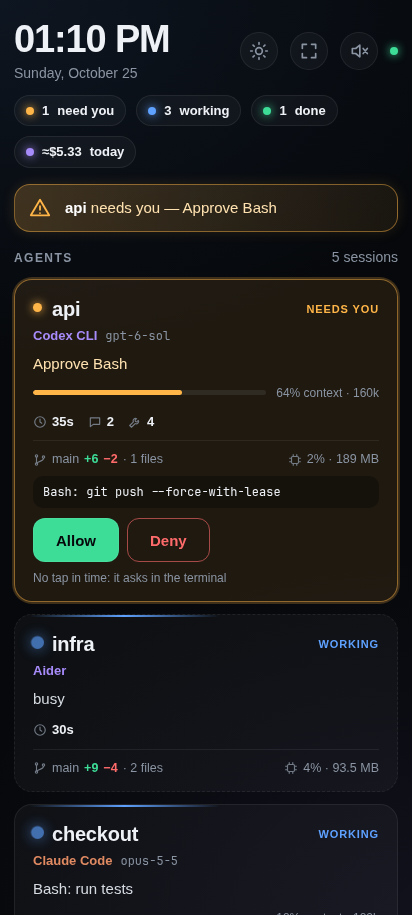
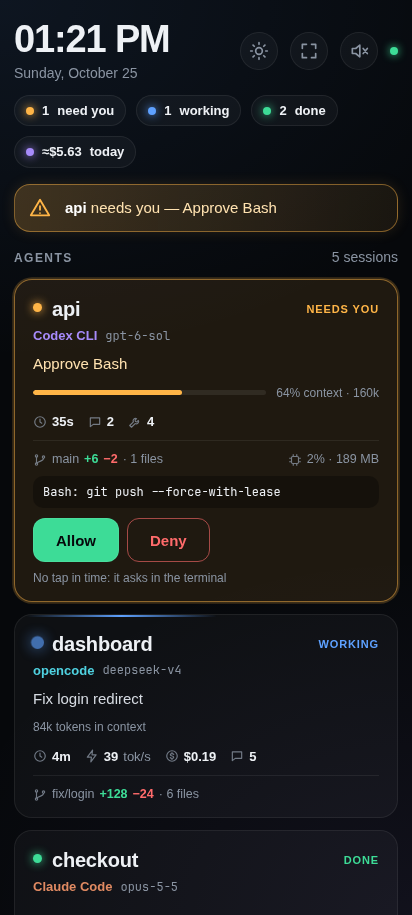
Move model prices into a dated JSON table (#11)
Prices were hand-maintained Python without a date, and Codex rows could
not show a cost. Move the table to agent_status/prices.json with as_of and
source, add the published OpenAI/Codex models, and merge an optional
~/.config/agent-status/prices.json per model on top.

Codex deltas now go through token_cost: cached input is priced at the
cache-read rate and the rest at input, so rows get an estimated cost and
the hourly chart and last-hour burn include them. Unknown models still
report cost: null. The Models panel shows prices_as_of, which is part of
the documented /status contract.

diff --git a/agent_status/web/index.html b/agent_status/web/index.html
@@ -53,12 +53,12 @@
       <div class="hours-axis"><span>00</span><span>06</span><span>12</span><span>18</span><span>24</span></div>
     </section>
     <section class="panel">
-      <div class="panel-h"><h2>Models</h2><span class="muted small">today</span></div>
+      <div class="panel-h"><h2>Models</h2><span class="muted small" id="models-note">today</span></div>
       <table class="models">
         <thead><tr><th>Model</th><th>Out</th><th>Total</th><th>Cost</th><th>tok/s</th></tr></thead>
         <tbody id="models"></tbody>
       </table>
-      <p class="note">≈ is the API-price equivalent of Claude usage, not what a subscription charges. tok/s includes time to first token.</p>
+      <p class="note">≈ is the API-price equivalent of Claude and Codex usage, not what a subscription charges. tok/s includes time to first token.</p>
     </section>
     <section class="panel" id="limits-panel">
       <div class="panel-h"><h2>Plan limits</h2></div>

diff --git a/agent_status/web/app.js b/agent_status/web/app.js
@@ -247,6 +247,7 @@ $("cards").addEventListener("click", async (e) => {
 // ---------- usage ----------
 function renderToday(d) {
   const t = d.today;
+  $("models-note").textContent = d.prices_as_of ? `today · prices ${d.prices_as_of}` : "today";
   setHTML($("today-cost"), t.cost ? `<small>≈</small>$${t.cost.toFixed(2)}` : "$0");
   setHTML($("today-sub"), `<span><b>${num(t.tokens)}</b> tokens</span><span><b>${num(t.output)}</b> output</span>${t.burn ? `<span><b>${usd(t.burn)}</b>/hour</span>` : ""}`);
   const hourNow = new Date().getHours(), max = Math.max(...t.hours.map((h) => h[0]), 1);

diff --git a/agent_status/usage.py b/agent_status/usage.py
@@ -1,38 +1,66 @@
-"""Token maths shared by the collectors: prices, cost, tokens/sec, context windows, usage rows."""
-import re
+"""Token maths shared by the collectors: prices, cost, tokens/sec, context windows, usage rows.
 
-# $/MTok: input, output, cache read. Cache writes bill 1.25x input (5-minute TTL) or 2x (1-hour TTL).
-# Source: Anthropic first-party API pricing. Longest matching prefix wins, so suffixes like "[1m]" still match.
-PRICES = {
-    "claude-fable-5-1": (10, 50, 0.25),
-    "claude-fable-5": (10, 50, 1.00),
-    "claude-opus-5-5": (4, 20, 0.20),
-    "claude-opus-5": (5, 25, 0.50),
-    "claude-opus-4-8": (5, 25, 0.50),
-    "claude-opus-4-7": (5, 25, 0.50),
-    "claude-opus-4-6": (5, 25, 0.50),
-    "claude-sonnet-5-5": (2, 10, 0.20),
-    "claude-sonnet-5": (2, 10, 0.20),
-    "claude-sonnet-4-6": (3, 15, 0.30),
-    "claude-haiku-5-5": (0.10, 0.50, 0.01),
-    "claude-haiku-4-5": (1, 5, 0.10),
-}
+Prices are dated data in prices.json. A file at ~/.config/agent-status/prices.json can override models.
+"""
+import json, re
+from pathlib import Path
+
+from .config import USER_CONFIG
+
+PRICES_FILE = Path(__file__).with_name("prices.json")
+PRICES_OVERRIDE = USER_CONFIG.parent / "prices.json"
 
 
-def price_for(model):
-    best = max((k for k in PRICES if (model or "").startswith(k)), key=len, default=None)
-    return PRICES.get(best)
+def _read_json(path):
+    try:
+        return json.loads(Path(path).read_text())
+    except (OSError, ValueError):
+        return {}
 
 
-def claude_cost(model, u):
-    """API-equivalent dollars for one Claude response's usage block, or None for unknown models."""
-    p = price_for(model)
+def load_prices(override=PRICES_OVERRIDE):
+    """The bundled table with the user's per-model overrides merged on top."""
+    base, user = _read_json(PRICES_FILE), _read_json(override)
+    return dict(as_of=user.get("as_of") or base.get("as_of") or "",
+                source=user.get("source") or base.get("source") or "",
+                models={**(base.get("models") or {}), **(user.get("models") or {})})
+
+
+_loaded = load_prices()
+PRICES, PRICES_AS_OF, PRICES_SOURCE = _loaded["models"], _loaded["as_of"], _loaded["source"]
+
+
+def price_for(model, prices=None):
+    """The longest matching model prefix, or None when the model has no price."""
+    prices = PRICES if prices is None else prices
+    best = max((k for k in prices if (model or "").startswith(k)), key=len, default=None)
+    return prices.get(best)
+
+
+def token_cost(model, input_tokens, output_tokens, cache_read=0, cache_write_5m=0, cache_write_1h=0, prices=None):
+    """USD for token counts at $/MTok; None for an unknown model. Cache writes default to 1.25x/2x input."""
+    p = price_for(model, prices)
     if not p:
         return None
+    in_rate = p["in"]
+    return (input_tokens * in_rate + output_tokens * p["out"] + cache_read * p["cache_read"]
+            + cache_write_5m * p.get("cache_write_5m", in_rate * 1.25)
+            + cache_write_1h * p.get("cache_write_1h", in_rate * 2)) / 1e6
+
+
+def claude_cost(model, u, prices=None):
+    """API-equivalent dollars for one Claude response's usage block, or None for unknown models."""
     w1h = (u.get("cache_creation") or {}).get("ephemeral_1h_input_tokens") or 0
     w5m = (u.get("cache_creation_input_tokens") or 0) - w1h
-    return ((u.get("input_tokens") or 0) * p[0] + (u.get("output_tokens") or 0) * p[1]
-            + (u.get("cache_read_input_tokens") or 0) * p[2] + w5m * p[0] * 1.25 + w1h * p[0] * 2) / 1e6
+    return token_cost(model, u.get("input_tokens") or 0, u.get("output_tokens") or 0,
+                      u.get("cache_read_input_tokens") or 0, w5m, w1h, prices)
+
+
+def codex_cost(model, d, prices=None):
+    """OpenAI counts cached tokens inside input_tokens; Codex's deltas split them."""
+    cached = d.get("cached_input_tokens") or 0
+    return token_cost(model, max((d.get("input_tokens") or 0) - cached, 0), d.get("output_tokens") or 0,
+                      cached, prices=prices)
 
 
 def context_window(model):

diff --git a/tests/test_usage.py b/tests/test_usage.py
@@ -1,14 +1,16 @@
-import unittest
+import json, tempfile, unittest
+from pathlib import Path
 
 from agent_status.procs import agent_key
-from agent_status.usage import PRICES, claude_cost, context_window, finish_rows, new_row, price_for, tps
+from agent_status.usage import (PRICES, claude_cost, codex_cost, context_window, finish_rows, load_prices,
+                                new_row, price_for, tps)
 
 
 class Pricing(unittest.TestCase):
     def test_longest_prefix(self):
         self.assertEqual(price_for("claude-opus-5-5[1m]"), PRICES["claude-opus-5-5"])
         self.assertEqual(price_for("claude-opus-5"), PRICES["claude-opus-5"])
-        self.assertIsNone(price_for("gpt-6"))
+        self.assertIsNone(price_for("unknown-model"))
 
     def test_cost_includes_cache_writes_by_ttl(self):
         u = {"input_tokens": 1_000_000, "output_tokens": 1_000_000, "cache_read_input_tokens": 1_000_000,
@@ -16,6 +18,22 @@ class Pricing(unittest.TestCase):
         # $4 in + $20 out + $0.20 cache read + 1M x 5-min write at 1.25x + 1M x 1-hour write at 2x
         self.assertAlmostEqual(claude_cost("claude-opus-5-5", u), 4 + 20 + 0.2 + 5 + 8)
         self.assertIsNone(claude_cost("unknown", u))
+
+    def test_codex_counts_cached_input_inside_input(self):
+        d = {"input_tokens": 1_000_000, "cached_input_tokens": 600_000, "output_tokens": 100_000}
+        self.assertAlmostEqual(codex_cost("gpt-6-sol", d), (400_000 * 2 + 100_000 * 10 + 600_000 * 0.10) / 1e6)
+        self.assertIsNone(codex_cost("unknown-model", d))
+
+    def test_override_changes_one_model_and_keeps_the_rest(self):
+        with tempfile.TemporaryDirectory() as d:
+            path = Path(d) / "prices.json"
+            path.write_text(json.dumps({"as_of": "2030-01-01", "models": {
+                "claude-opus-5-5": {"in": 100, "out": 100, "cache_read": 1}}}))
+            prices = load_prices(path)
+            self.assertEqual(prices["as_of"], "2030-01-01")
+            self.assertEqual(price_for("claude-sonnet-4-6", prices["models"])["in"], 3)
+            u = {"input_tokens": 1_000_000, "output_tokens": 0}
+            self.assertAlmostEqual(claude_cost("claude-opus-5-5", u, prices["models"]), 100)
 
     def test_context_window(self):
         self.assertEqual(context_window("claude-opus-5-5"), 1_000_000)

diff --git a/agent_status/codex.py b/agent_status/codex.py
@@ -9,7 +9,7 @@ from pathlib import Path
 
 from .claude import parse_ts
 from .config import HOME
-from .usage import new_row
+from .usage import codex_cost, new_row
 
 KEYS = ("input_tokens", "cached_input_tokens", "output_tokens")
 WINDOWS = {300: "5-hour", 10080: "Weekly", 43200: "Monthly"}
@@ -67,19 +67,28 @@ class CodexSessions:
         ctx = f["last"].get("input_tokens") or 0  # OpenAI counts cached tokens inside input_tokens
         return dict(model=f["model"], ctx_tokens=ctx, ctx=ctx / f["window"] if f["window"] else None)
 
-    def usage(self, since):
-        rows, hours = {}, [[0, 0.0] for _ in range(24)]
+    def usage(self, since, now):
+        rows, hours, last_hour = {}, [[0, 0.0] for _ in range(24)], 0.0
         for f in self.files.values():
             for ts, model, d in f["events"]:
                 if ts < since:
                     continue
                 r = rows.setdefault(model, new_row("Codex", model))
-                r["priced"] = False  # shortcut: no reliable per-token prices for Codex models yet
+                cost = codex_cost(model, d)
+                if cost is None:
+                    r["priced"] = False
+                else:
+                    r["estimated"] = True
+                    r["cost"] += cost
+                    if now - ts < 3600:
+                        last_hour += cost
                 r["input"] += d["input_tokens"] - d["cached_input_tokens"]
                 r["cache_read"] += d["cached_input_tokens"]
                 r["output"] += d["output_tokens"]
-                hours[datetime.fromtimestamp(ts).hour][0] += d["input_tokens"] + d["output_tokens"]
-        return list(rows.values()), hours
+                h = hours[datetime.fromtimestamp(ts).hour]
+                h[0] += d["input_tokens"] + d["output_tokens"]
+                h[1] += cost or 0
+        return list(rows.values()), hours, last_hour
 
     def limits(self, now):
         if not self.rate:

diff --git a/agent_status/collect.py b/agent_status/collect.py
@@ -12,7 +12,7 @@ from .hooks import read_json
 from .opencode import OpenCode
 from .procs import ProcTable, label
 from .system import System
-from .usage import finish_rows
+from .usage import PRICES_AS_OF, finish_rows
 
 STALE = 6 * 3600  # hook records without a known pid are dropped after this long
 TMP_STALE = 60  # a hook killed mid-write leaves a *.tmp younger than any real write
@@ -115,8 +115,8 @@ class Collector:
             r, h, b = self.claude.usage(since, now)
             rows, hours, burn = rows + r, hours + [h], burn + b
         if on("codex"):
-            r, h = self.codex.usage(since)
-            rows, hours = rows + r, hours + [h]
+            r, h, b = self.codex.usage(since, now)
+            rows, hours, burn = rows + r, hours + [h], burn + b
         if on("opencode"):
             c, r, h, b = self.oc.read(now, since)
             cards, rows, hours, burn = cards + c, rows + r, hours + [h], burn + b
@@ -130,7 +130,7 @@ class Collector:
         limits += [l for l in om_limits if l["name"] not in have]
         rows = finish_rows(rows + om_rows)
         snapshot = dict(
-            schema=1, now=now, interval=INTERVAL, agents=cards, limits=limits, week=week, system=self.system.sample(now),
+            schema=1, now=now, interval=INTERVAL, prices_as_of=PRICES_AS_OF, agents=cards, limits=limits, week=week, system=self.system.sample(now),
             today=dict(cost=sum(r["cost"] or 0 for r in rows), tokens=sum(r["total"] for r in rows),
                        output=sum(r["output"] for r in rows), burn=burn,
                        hours=add_hours(*hours) if hours else [[0, 0]] * 24, models=rows))

diff --git a/tests/test_contract.py b/tests/test_contract.py
@@ -72,7 +72,7 @@ ROW = {"agent": text, "model": text, "input": integer, "output": integer, "cache
        "cache_write": integer, "cost": Nullable(number), "estimated": boolean, "tps": Nullable(number),
        "total": integer}
 STATUS = {
-    "schema": integer, "now": number, "interval": number,
+    "schema": integer, "now": number, "interval": number, "prices_as_of": text,
     "agents": [CARD],
     "limits": [LIMIT],
     "week": [{"date": text, "agents": Map(integer)}],
@@ -148,10 +148,10 @@ class FakeCodex:
     def session(self, path):
         return dict(model="gpt-6-sol", ctx_tokens=5000, ctx=0.02)
 
-    def usage(self, since):
+    def usage(self, since, now):
         row = new_row("Codex", "gpt-6-sol")
-        row.update(input=100, output=20, cache_read=50, priced=False)
-        return [row], [[170, 0] for _ in range(24)]
+        row.update(input=100, output=20, cache_read=50, cost=0.01, estimated=True)
+        return [row], [[170, 0.01] for _ in range(24)], 0.01
 
     def limits(self, now):
         return [dict(name="Codex", tier="Plus",

diff --git a/agent_status/demo.py b/agent_status/demo.py
@@ -2,7 +2,7 @@
 import json, math, time
 from datetime import datetime, timedelta
 
-from .usage import finish_rows, new_row
+from .usage import PRICES_AS_OF, finish_rows, new_row
 
 
 def _iso(ts):
@@ -22,7 +22,8 @@ def _rows():
     rows.append(claude)
 
     codex = new_row("Codex", "gpt-6-sol")
-    codex.update(input=96_000, output=8_400, cache_read=240_000, priced=False, tps_out=8_400, tps_sec=195)
+    codex.update(input=96_000, output=8_400, cache_read=240_000, cost=0.30, estimated=True,
+                 tps_out=8_400, tps_sec=195)
     rows.append(codex)
 
     oc = new_row("opencode", "deepseek-v4")
@@ -112,7 +113,7 @@ def snapshot(now=None):
             tx=_wave(60, 180_000, 50_000, 5, phase, 0)),
     )
 
-    return dict(schema=1, now=now, interval=2, agents=cards, limits=limits, week=week,
+    return dict(schema=1, now=now, interval=2, prices_as_of=PRICES_AS_OF, agents=cards, limits=limits, week=week,
                 system=system, today=today_usage)
 
 

diff --git a/tests/test_readers.py b/tests/test_readers.py
@@ -56,8 +56,11 @@ class CodexLogs(unittest.TestCase):
             path.write_text("".join(json.dumps(l) + "\n" for l in lines))
             c = CodexSessions(d)
             c.scan(now - 3600)
-            rows, _ = c.usage(now - 3600)
+            rows, _, last_hour = c.usage(now - 3600, now)
             self.assertEqual((rows[0]["model"], rows[0]["output"], rows[0]["cache_read"]), ("gpt-6-sol", 300, 2000))
+            self.assertAlmostEqual(rows[0]["cost"], (1000 * 2 + 300 * 10 + 2000 * 0.10) / 1e6)
+            self.assertTrue(rows[0]["estimated"])
+            self.assertGreater(last_hour, 0)
             self.assertEqual(c.session(str(path))["ctx"], 0.02)
             limits = c.limits(now)[0]
             self.assertEqual((limits["tier"], limits["limits"][0]["label"], limits["limits"][0]["pct"]), ("Plus", "5-hour", 0.64))

diff --git a/docs/PLAN.md b/docs/PLAN.md
@@ -23,7 +23,7 @@ Repo conventions and invariants live in [`AGENTS.md`](../AGENTS.md); they apply 
 | T07 | Demo mode for screenshots | 1 Release | S | done | T06 |
 | T08 | Single-source version, CHANGELOG, PyPI release workflow | 1 Release | M | done | T02 |
 | T09 | AUR package and Homebrew tap | 1 Release | M | todo, **needs a human** | T08 |
-| T10 | Price tables as dated data, plus OpenAI prices | 2 Data | M | todo | |
+| T10 | Price tables as dated data, plus OpenAI prices | 2 Data | M | done | |
 | T11 | Usage history in SQLite (replaces Omarchy for history) | 2 Data | L | todo | T06 |
 | T12 | Budgets and limit alerts | 2 Data | M | todo | T11 |
 | T13 | Codex tokens/sec | 2 Data | S | todo | |
@@ -50,8 +50,9 @@ Working and verified on Linux (Omarchy, Python 3.14) with an iPad on the LAN:
 - **Machine stats on Linux:** CPU, GPU (NVIDIA and AMD), memory, network, disks, batteries.
 - **API:** `/status` carries `schema: 1`, its full shape is documented in [`docs/api.md`](api.md), and a contract test builds a snapshot from fixtures.
 - **Demo mode:** `agent-status serve --demo` serves five fictional sessions with moving sparklines; the README screenshots come from it and the contract test checks it.
+- **Prices:** `agent_status/prices.json` is a dated table (Claude and OpenAI), shown in the Models panel; `~/.config/agent-status/prices.json` overrides individual models.
 - **Packaging:** the version lives only in `agent_status/__init__.py`, a wheel builds from it, and a tagged release workflow publishes to PyPI once the owner configures trusted publishing.
-- **Installer and tests:** the interactive installer works, 65 unit tests pass on Linux, `agent-status doctor` reports hooks that are missing or older than the registry, and stale state files are cleaned on start and hourly.
+- **Installer and tests:** the interactive installer works, 67 unit tests pass on Linux, `agent-status doctor` reports hooks that are missing or older than the registry, and stale state files are cleaned on start and hourly.
 
 Built from documentation but **not yet run against the real thing**:
 

diff --git a/docs/api.md b/docs/api.md
@@ -14,6 +14,7 @@ the version and update this page. Any change to the keys or types must also upda
 | `schema` | integer | — | Contract version. Currently `1`. |
 | `now` | number | seconds | Unix time when the snapshot was built. |
 | `interval` | number | seconds | How often the collector refreshes; default `2`. |
+| `prices_as_of` | string | date | Date of the bundled price table (`YYYY-MM-DD`). Override prices in `~/.config/agent-status/prices.json`. |
 | `agents` | array of [cards](#cards) | — | Live sessions from hooks, opencode and the process table. |
 | `limits` | array of [limit groups](#limits) | — | Plan windows, from Codex logs and Omarchy's usage files. |
 | `week` | array of [days](#week) | — | Up to seven days of activity from Omarchy; empty without it. |
@@ -121,6 +122,9 @@ Each model row:
 | `estimated` | boolean | — | True when the cost came from the local price table. |
 | `tps` | number or null | output tokens/second | Throughput, or null when it cannot be measured. |
 | `total` | integer | tokens | `input + output + cache_read + cache_write`. |
+
+Prices come from `agent_status/prices.json`, dated by `prices_as_of`. A `~/.config/agent-status/prices.json` with the
+same shape (only the models you want to change) is merged on top; a model with no entry has `cost: null`.
 
 ## Access
 

diff --git a/README.md b/README.md
@@ -115,7 +115,7 @@ transcripts, opencode db, /proc, /sys, nvidia-smi ──▶ agent-status serve (
 
 - **Hooks** run on every event, so they're tiny: parse the event, update one JSON file, exit. They never fail the agent; the only one that waits is a permission request while a dashboard is open (at most 60 seconds, polling `decisions/` for a tap).
 - **Readers** parse transcripts and databases incrementally: only what was appended since the last refresh.
-- **Costs**: Claude costs are what the same tokens would cost on the API (subscriptions bill differently, so they're marked `≈`); opencode costs are what opencode itself recorded. tok/s includes time to first token.
+- **Costs**: Claude and Codex costs are what the same tokens would cost on the API (subscriptions bill differently, so they're marked `≈`); opencode costs are what opencode itself recorded. Prices live in `agent_status/prices.json`, dated in the Models panel; override a model in `~/.config/agent-status/prices.json`. tok/s includes time to first token.
 
 ## Development
 
